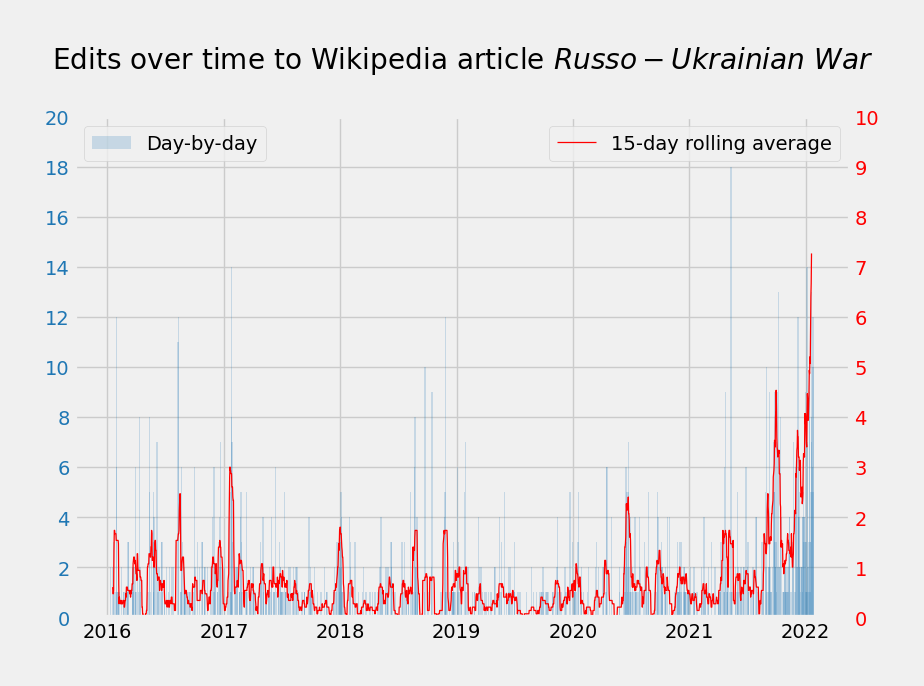
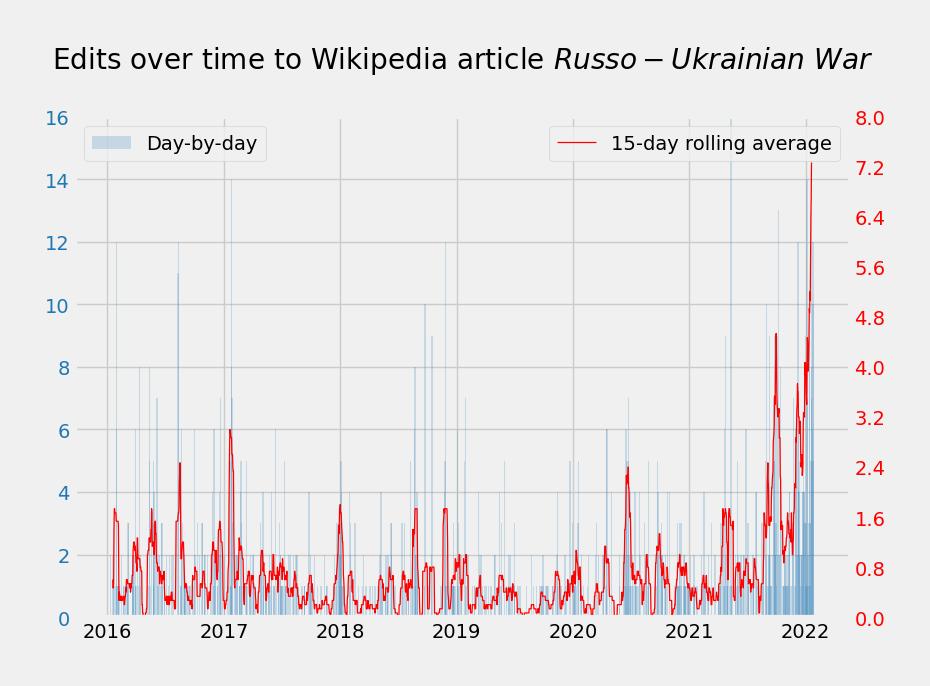
changed ylims

diff --git a/main.py b/main.py
@@ -53,7 +53,7 @@ plt.style.use('fivethirtyeight')
 
 ax1 = fig.add_subplot(111)
 ax1.grid(True)
-ax1.set_ylim([0.0, 20])
+ax1.set_ylim([0.0, 16])
 ax1.yaxis.set_major_locator(plt.MaxNLocator(integer=True))
 ax1.bar(matplotlib.dates.date2num(dates), values, color='tab:blue', width=4.0, alpha=0.20, label='Day-by-day')
 for tl in ax1.get_yticklabels():
@@ -61,7 +61,7 @@ for tl in ax1.get_yticklabels():
 
 ax2 = ax1.twinx()
 ax2.grid(False)
-ax2.set_ylim([0.0, 10.0])
+ax2.set_ylim([0.0, 8.0])
 ax2.yaxis.set_major_locator(plt.MaxNLocator(integer=False))
 ax2.plot_date(matplotlib.dates.date2num(list(rolling_avg.keys())), list(rolling_avg.values()), 'r-', linewidth=0.9, label=f'{days_rolling_avg}-day rolling average')
 for tl in ax2.get_yticklabels():
